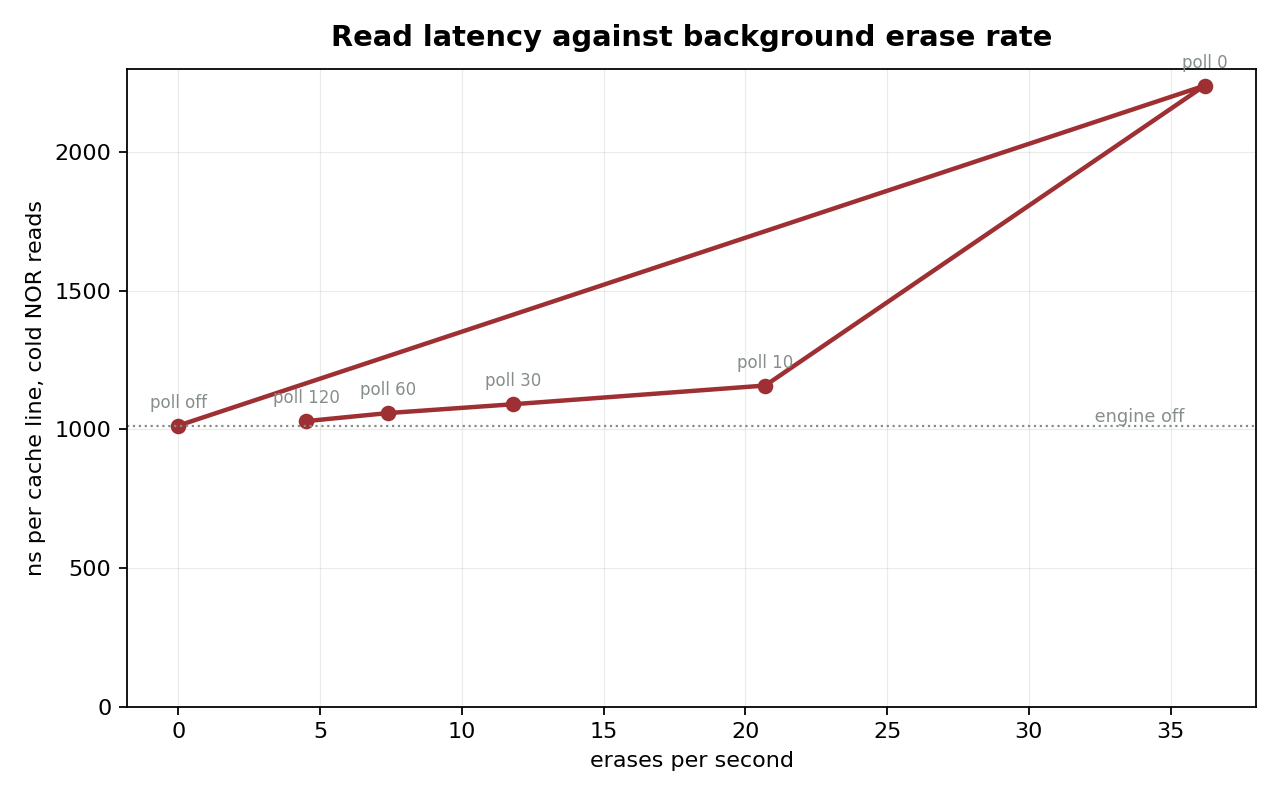
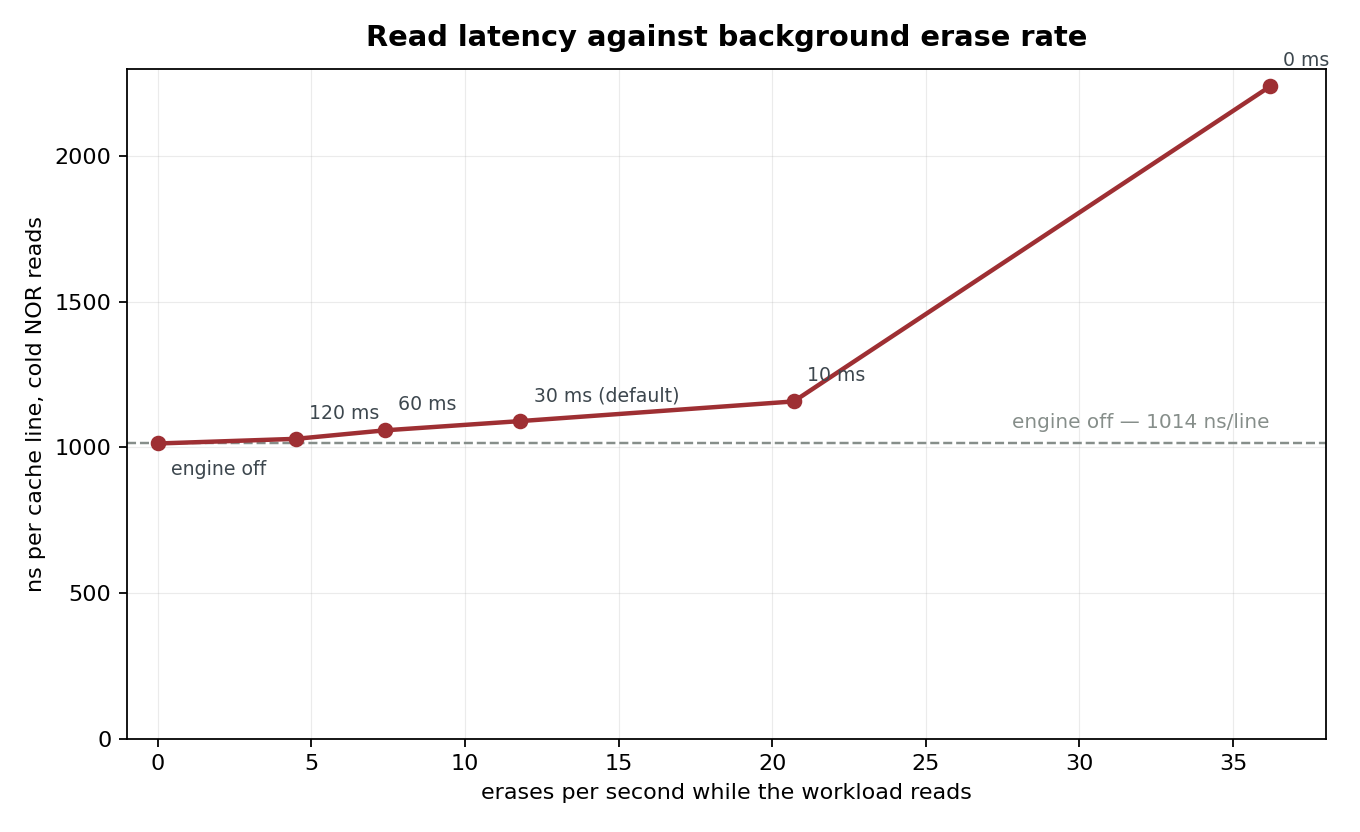
plot: restore the savefig the sort rewrite dropped
The block I replaced ended with the savefig and the made.append; the
replacement did not, so the figure was computed and thrown away and the
script reported three plots instead of four.

diff --git a/scripts/plot_selftest.py b/scripts/plot_selftest.py
@@ -66,6 +66,8 @@ if r:
     frame(ax, "Read latency against background erase rate",
           "erases per second while the workload reads",
           "ns per cache line, cold NOR reads")
+    fig.tight_layout(); fig.savefig(f"{OUT}/selftest-read-vs-erase.png", dpi=160)
+    made.append("read-vs-erase")
 
 r = rows("promote-rate.csv")
 if r:
